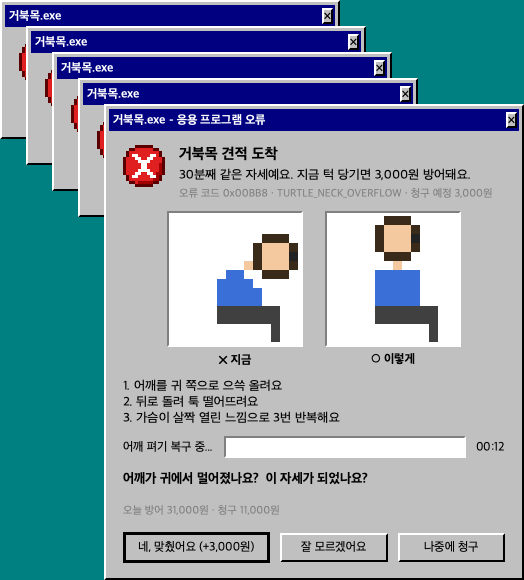
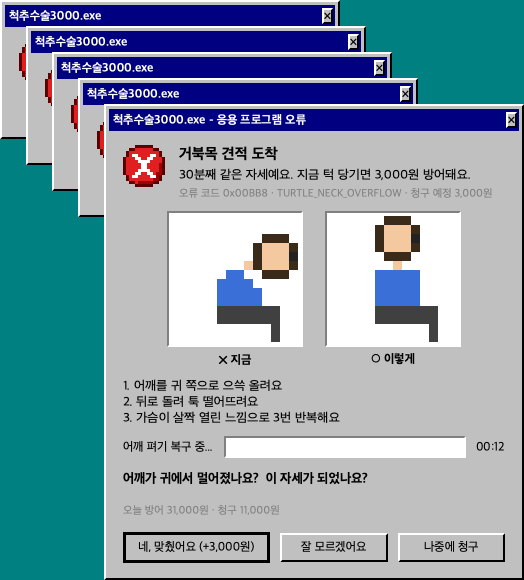
Rename app to 척추수술3000

Changed region(s): [[0.0, 0.0, 0.3053, 0.1241], [0.1527, 0.1552, 0.5802, 0.2172]]

diff --git a/src/posture_alert/ui/popup.py b/src/posture_alert/ui/popup.py
@@ -3,7 +3,7 @@
 - GuideCard  : 메인 에러창 (그림 + 단계 + 타이머 + "이 자세가 되었나요?")
 - GhostError : 알림을 무시할수록 뒤에 겹겹이 쌓이는 에러창
 - LightToast : 눈 휴식용 작은 경고창 (8초 뒤 자동으로 닫힘)
-- ReceiptWindow : 오늘의 거북목 견적서
+- ReceiptWindow : 오늘의 척추 견적서
 """
 from datetime import datetime
 from pathlib import Path
@@ -19,7 +19,7 @@ from .retro import (BAD_POSE, DARK, ERROR_ICON, ERROR_PAL, GOOD_POSE, NAVY,
                     POSE_PAL, WARNING, WARNING_PAL, retro_font, sprite)
 
 IMG_SIZE = 128
-EXE = "거북목.exe"
+EXE = f"{APP_NAME}.exe"
 ERROR_CODES = {
     "posture": "TURTLE_NECK_OVERFLOW",
     "stretch": "SHOULDER_LOCK_EXCEPTION",
@@ -302,11 +302,11 @@ class LightToast(_RetroWindow):
 
 
 class ReceiptWindow(_RetroWindow):
-    """오늘의 거북목 견적서."""
+    """오늘의 척추 견적서."""
     WIDTH = 30  # 영수증 한 줄 글자 수 (고정폭)
 
     def __init__(self, receipt: Receipt, now: datetime | None = None):
-        super().__init__(f"{APP_NAME}.txt - 메모장")
+        super().__init__(f"{APP_NAME} 견적서.txt - 메모장")
         self.setFixedWidth(360)
         self.title_bar.closed.connect(self.close)
         paper = QFrame()
@@ -333,7 +333,7 @@ class ReceiptWindow(_RetroWindow):
     def _render(cls, r: Receipt, now: datetime) -> str:
         w = cls.WIDTH
         days = "월화수목금토일"
-        out = [APP_NAME.center(w - 4), f"{now:%Y-%m-%d} ({days[now.weekday()]}) {now:%H:%M}".center(w),
+        out = [f"{APP_NAME} 견적서".center(w - 6), f"{now:%Y-%m-%d} ({days[now.weekday()]}) {now:%H:%M}".center(w),
                "-" * w, "[방어 내역]"]
         out += [f"{l.name} x{l.count}  {won(l.amount)}" for l in r.saved] or ["  (없음)"]
         out += ["", "[청구 내역]"]

diff --git a/src/posture_alert/engine/billing.py b/src/posture_alert/engine/billing.py
@@ -1,4 +1,4 @@
-"""거북목 견적서: 알림 응답을 '가상 병원비'로 환산한다 (재미용 가상 금액).
+"""척추 견적서: 알림 응답을 '가상 병원비'로 환산한다 (재미용 가상 금액).
 
 - 알림에 응해 자세를 맞추면 → 그 금액만큼 "방어"
 - 건너뛰거나 미루거나 그냥 닫히면 → 그 금액만큼 "청구"

diff --git a/src/posture_alert/engine/content.py b/src/posture_alert/engine/content.py
@@ -32,7 +32,7 @@ class Message:
     body: str
 
 
-APP_NAME = "거북목 견적서"
+APP_NAME = "척추수술3000"
 APP_SUBTITLE = "오늘 당신의 구부정한 목이 청구한 병원비"
 
 # 모든 문구는 존댓말. 금액은 billing.PRICE 와 맞춘다

diff --git a/README.md b/README.md
@@ -1,4 +1,4 @@
-# 거북목 견적서 (posture_alert)
+# 척추수술3000 (posture_alert)
 
 > 오늘 당신의 구부정한 목이 청구한 병원비
 
